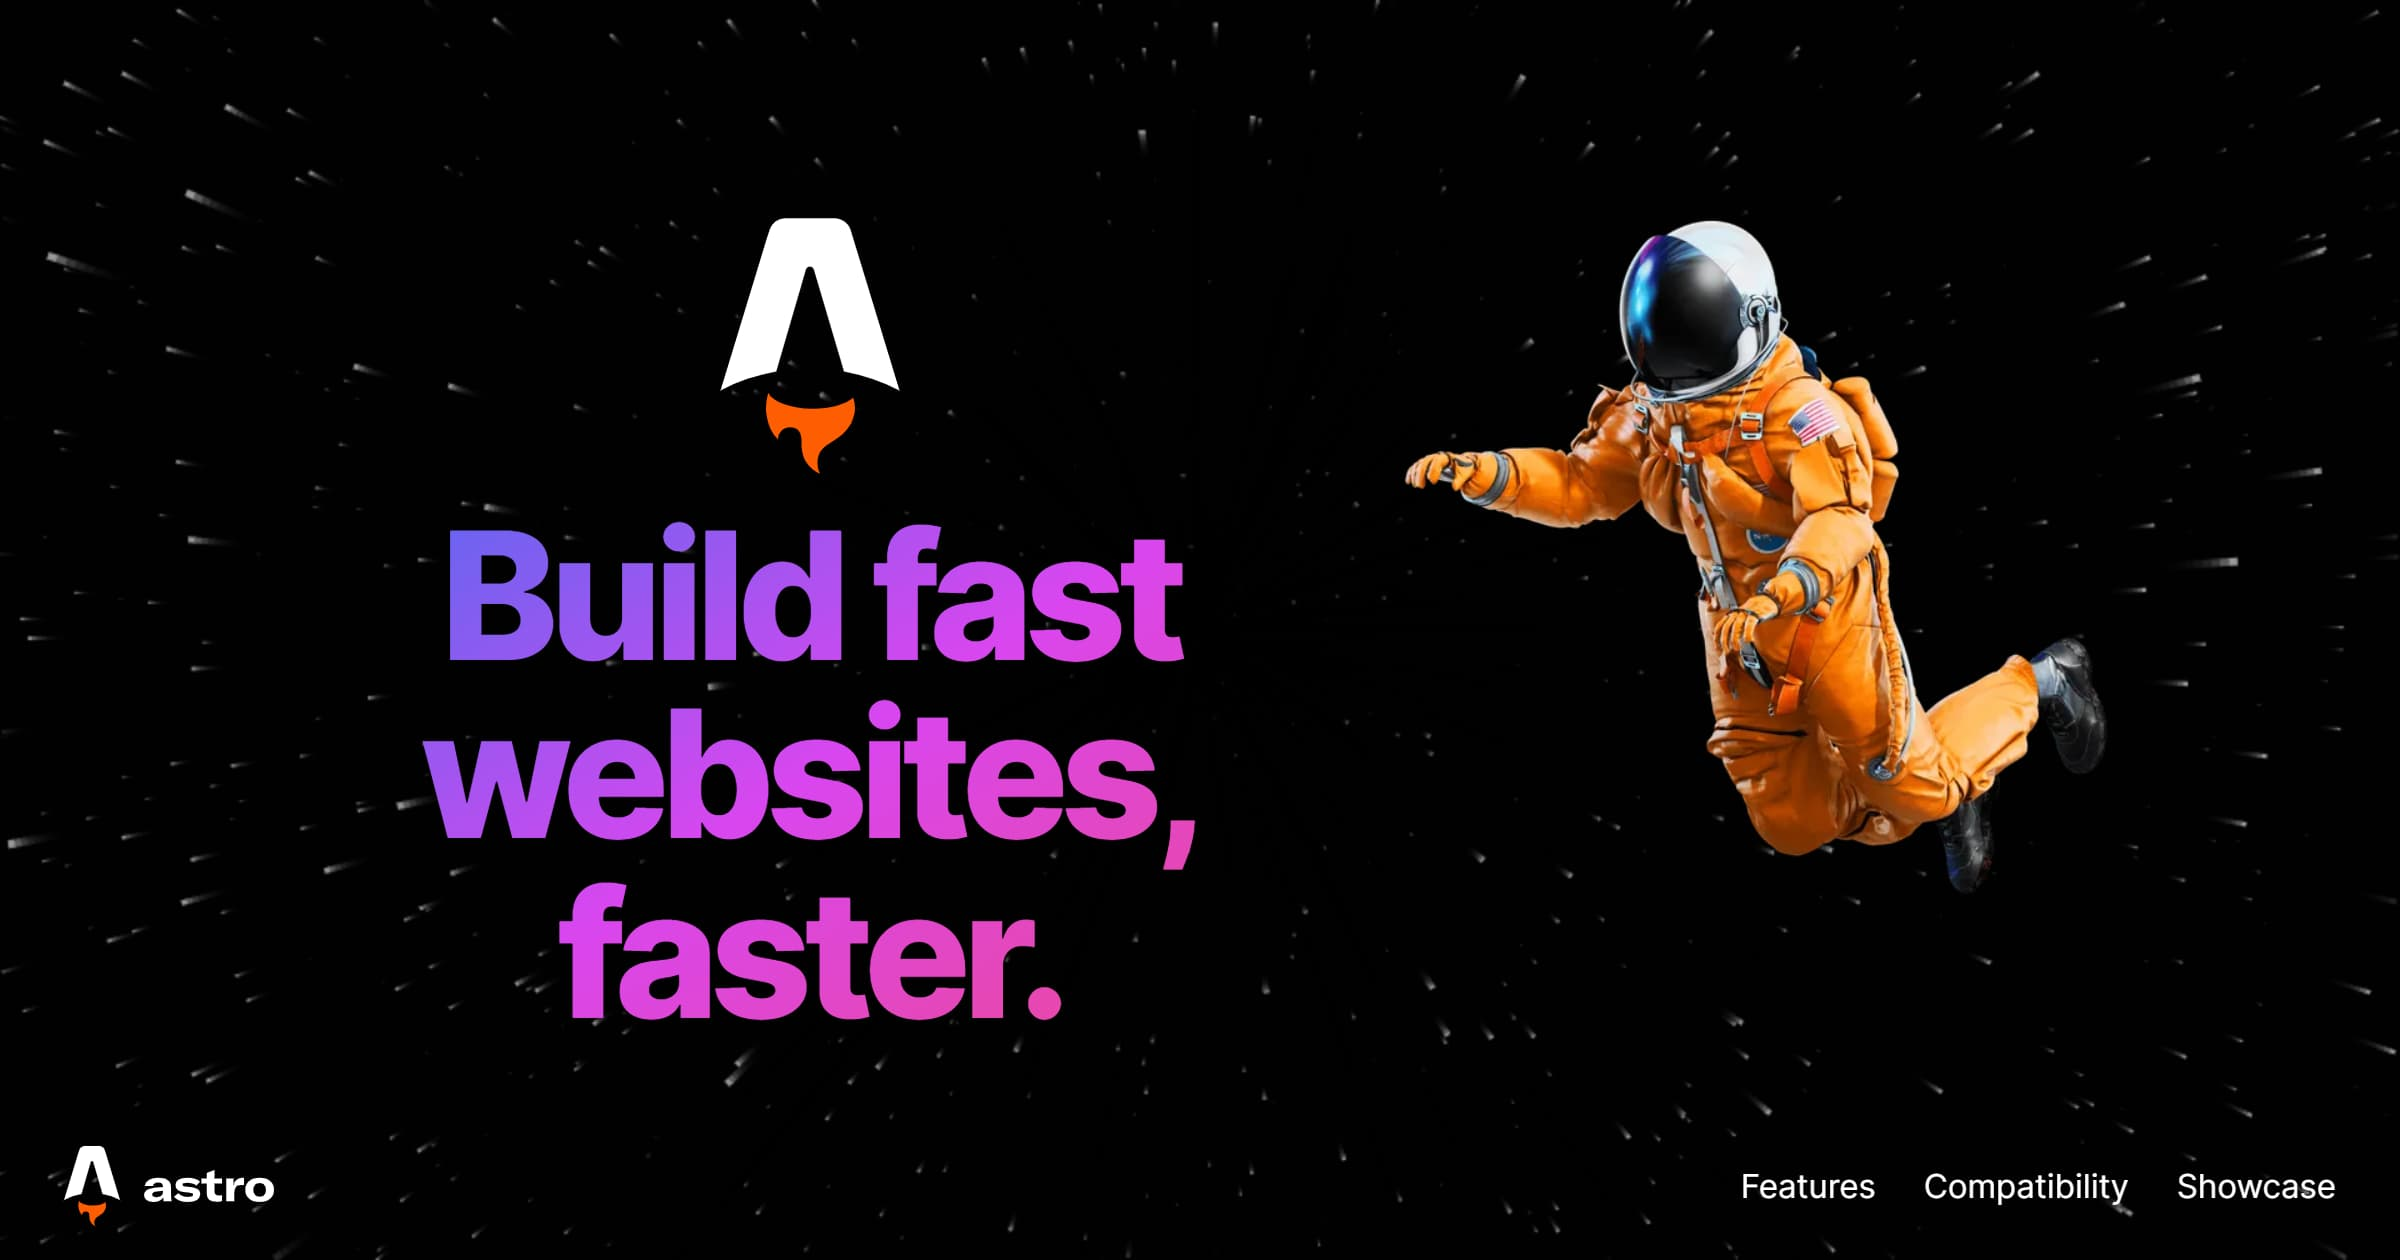
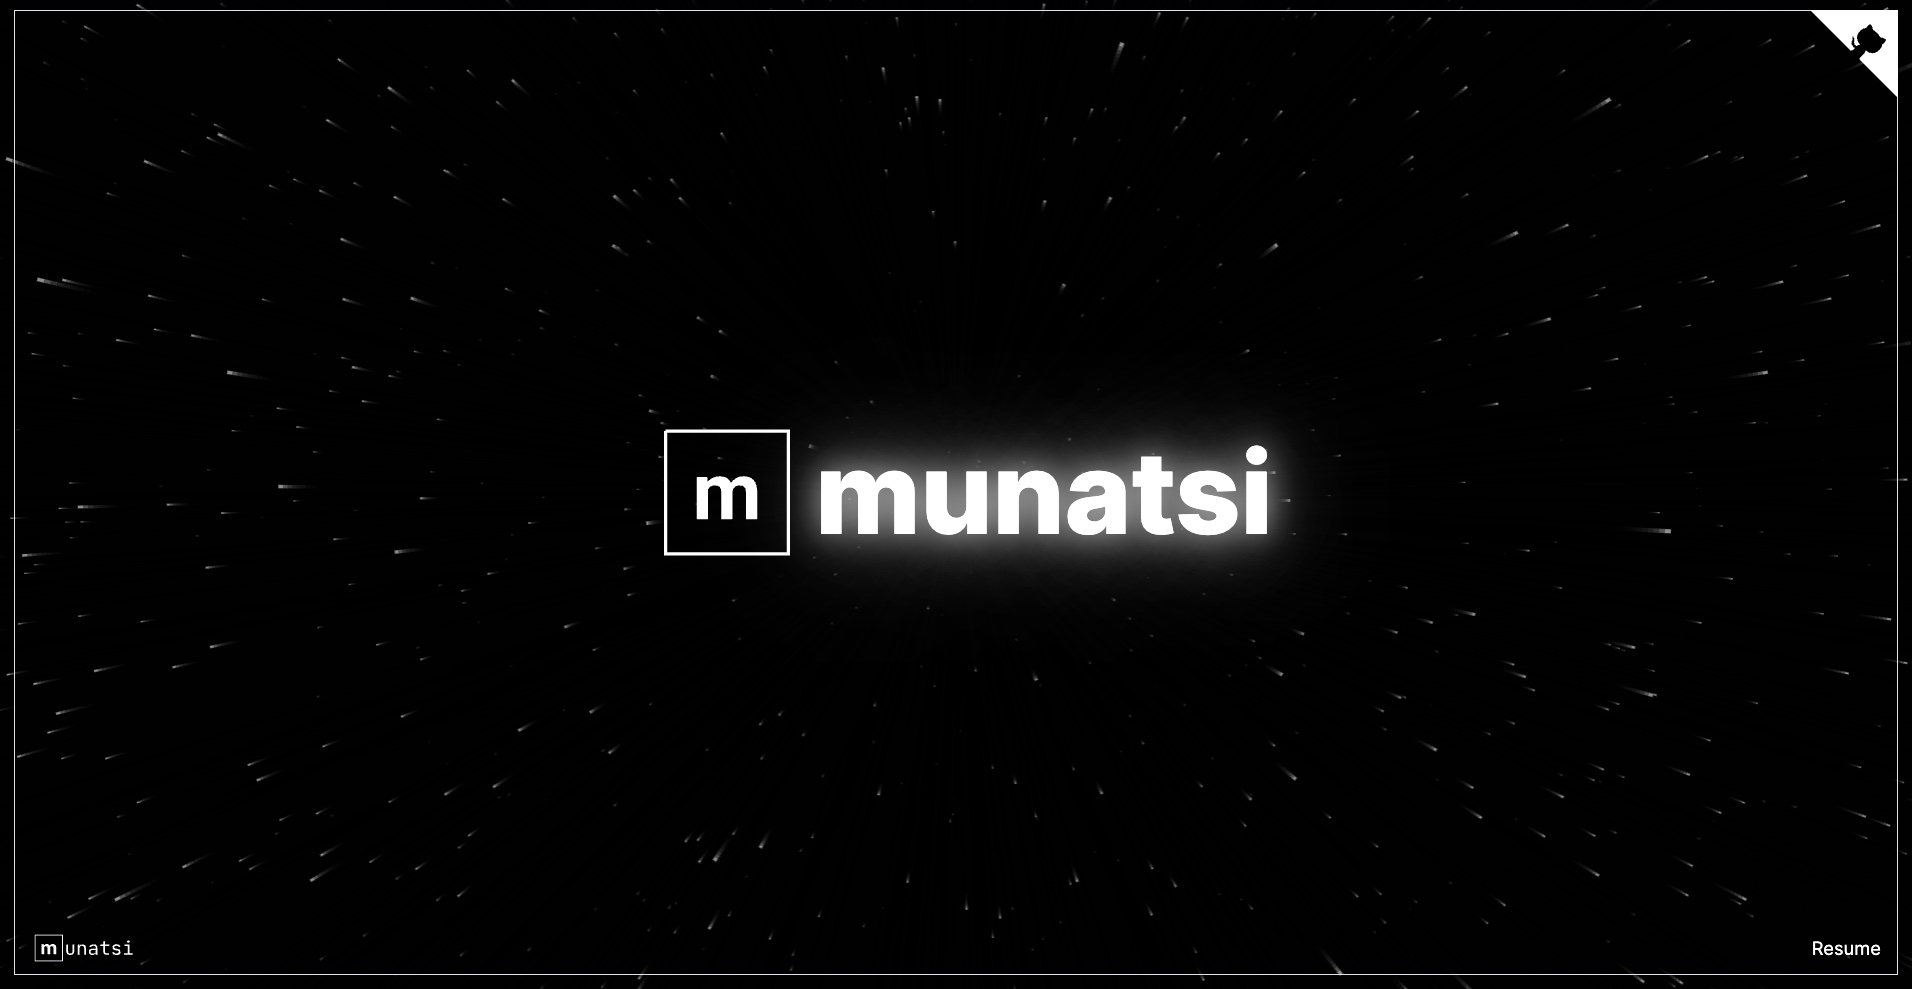
Updated the Readme and fixed the social image

diff --git a/README.md b/README.md
@@ -1,40 +1,13 @@
-# Astro Landing Page
+# Munatsi Ziumbe
+## My Personal Website
 
 [![Built with Astro](https://astro.badg.es/v1/built-with-astro.svg)](https://astro.build)
 
-> An Astro + Tailwind CSS example/template for landing pages.
 
-![Screenshots of Astro Landing Page](screenshots.jpg)
+![Screenshot of My Landing Page](./public/social.jpg)
 
-## Features
-
-- 💨 Tailwind CSS for styling
-- 🎨 Themeable
-  - CSS variables are defined in `src/styles/theme.css` and mapped to Tailwind classes (`tailwind.config.cjs`)
-- 🌙 Dark mode
-- 📱 Responsive (layout, images, typography)
-- ♿ Accessible (as measured by https://web.dev/measure/)
-- 🔎 SEO-enabled (as measured by https://web.dev/measure/)
-- 🔗 Open Graph tags for social media sharing
-- 💅 [Prettier](https://prettier.io/) setup for both [Astro](https://github.com/withastro/prettier-plugin-astro) and [Tailwind](https://github.com/tailwindlabs/prettier-plugin-tailwindcss)
-
-## Commands
-
-| Command                | Action                                            |
-| :--------------------- | :------------------------------------------------ |
-| `npm install`          | Install dependencies                              |
-| `npm run dev`          | Start local dev server at `localhost:3000`        |
-| `npm run build`        | Build your production site to `./dist/`           |
-| `npm run preview`      | Preview your build locally, before deploying      |
-| `npm run astro ...`    | Run CLI commands like `astro add`, `astro check`  |
-| `npm run astro --help` | Get help using the Astro CLI                      |
-| `npm run format`       | Format code with [Prettier](https://prettier.io/) |
-| `npm run clean`        | Remove `node_modules` and build output            |
 
 ## Credits
 
-- astronaut image
-  - source: https://github.com/withastro/astro-og-image; note: this repo is not available anymore
-- moon image
-  - source: https://unsplash.com/@nasa
-- other than that, a lot of material (showcase data, copy) was taken from official Astro sources, in particular https://astro.build/blog/introducing-astro/ and https://github.com/withastro/astro.build
+- template:
+  - source: [Astro Landing Page Template](https://github.com/mhyfritz/astro-landing-page)
